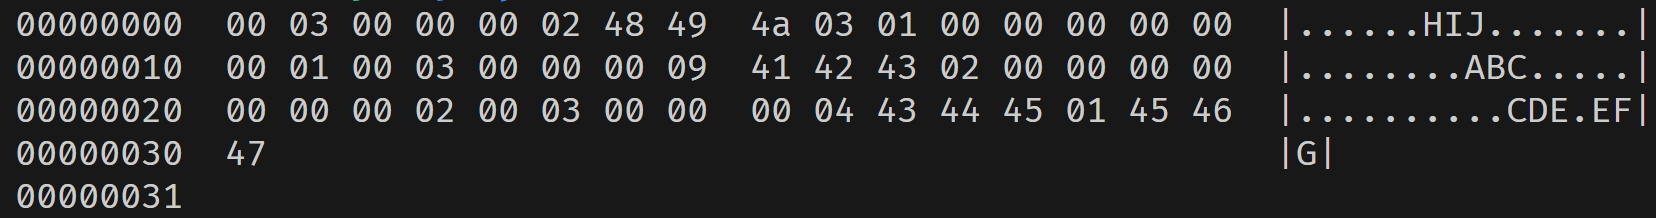
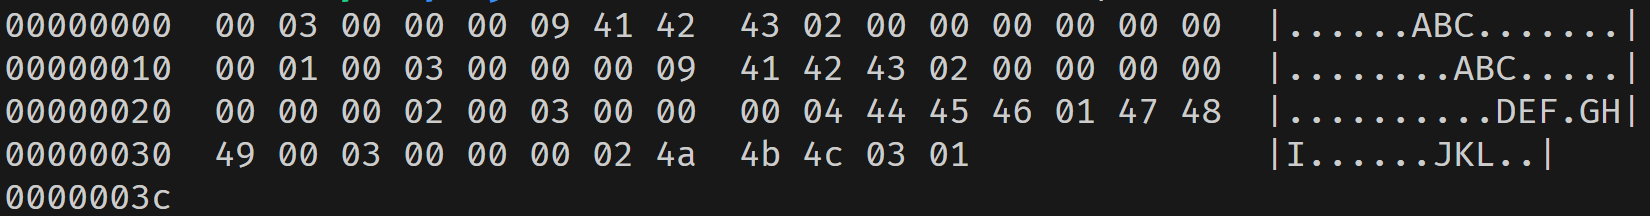
Melhorar README

diff --git a/README.md b/README.md
@@ -62,6 +62,34 @@ curl --request POST \
   --header 'X-Client-Name: Client-A' \
   --data 'BEGIN'
 ```
+## Armazenamento
+Abaixo, exemplo de um `hexdump` do arquivo de log com os seguintes registros persistidos e como são compostos em disco:
+1. ABC => 1
+   - Tamanho da chave (uint16) 
+   - Tamanho do valor (uint32)
+   - Chave (3 chars)
+   - Tipo do valor (int = 2) (uint8)
+   - Valor do tipo inteiro (uint64)
+2. ABC => 2
+   - Tamanho da chave (uint16)
+   - Tamanho do valor (uint32)
+   - Chave (3 chars)
+   - Tipo do valor (int = 2) (uint8)
+   - Valor do tipo inteiro (uint64)
+3. DEF => GHI
+    - Tamanho da chave (uint16)
+    - Tamanho do valor (uint32)
+    - Chave (3 chars)
+    - Tipo do valor (binary = 1) (uint8)
+    - Valor do tipo string (3 chars)
+4. JKL => true
+    - Tamanho da chave (uint16)
+    - Tamanho do valor (uint32)
+    - Chave (3 chars)
+    - Tipo do valor (bool = 3) (uint8)
+    - Valor do tipo boolean (uint8)
+
+![database.db hexdump](https://github.com/qreidt/desafio-cumbuca/blob/main/docs/images/hexdump.png?raw=true)
 
 ## Melhorias
 A seguir estão passos de como melhorar o projeto:
